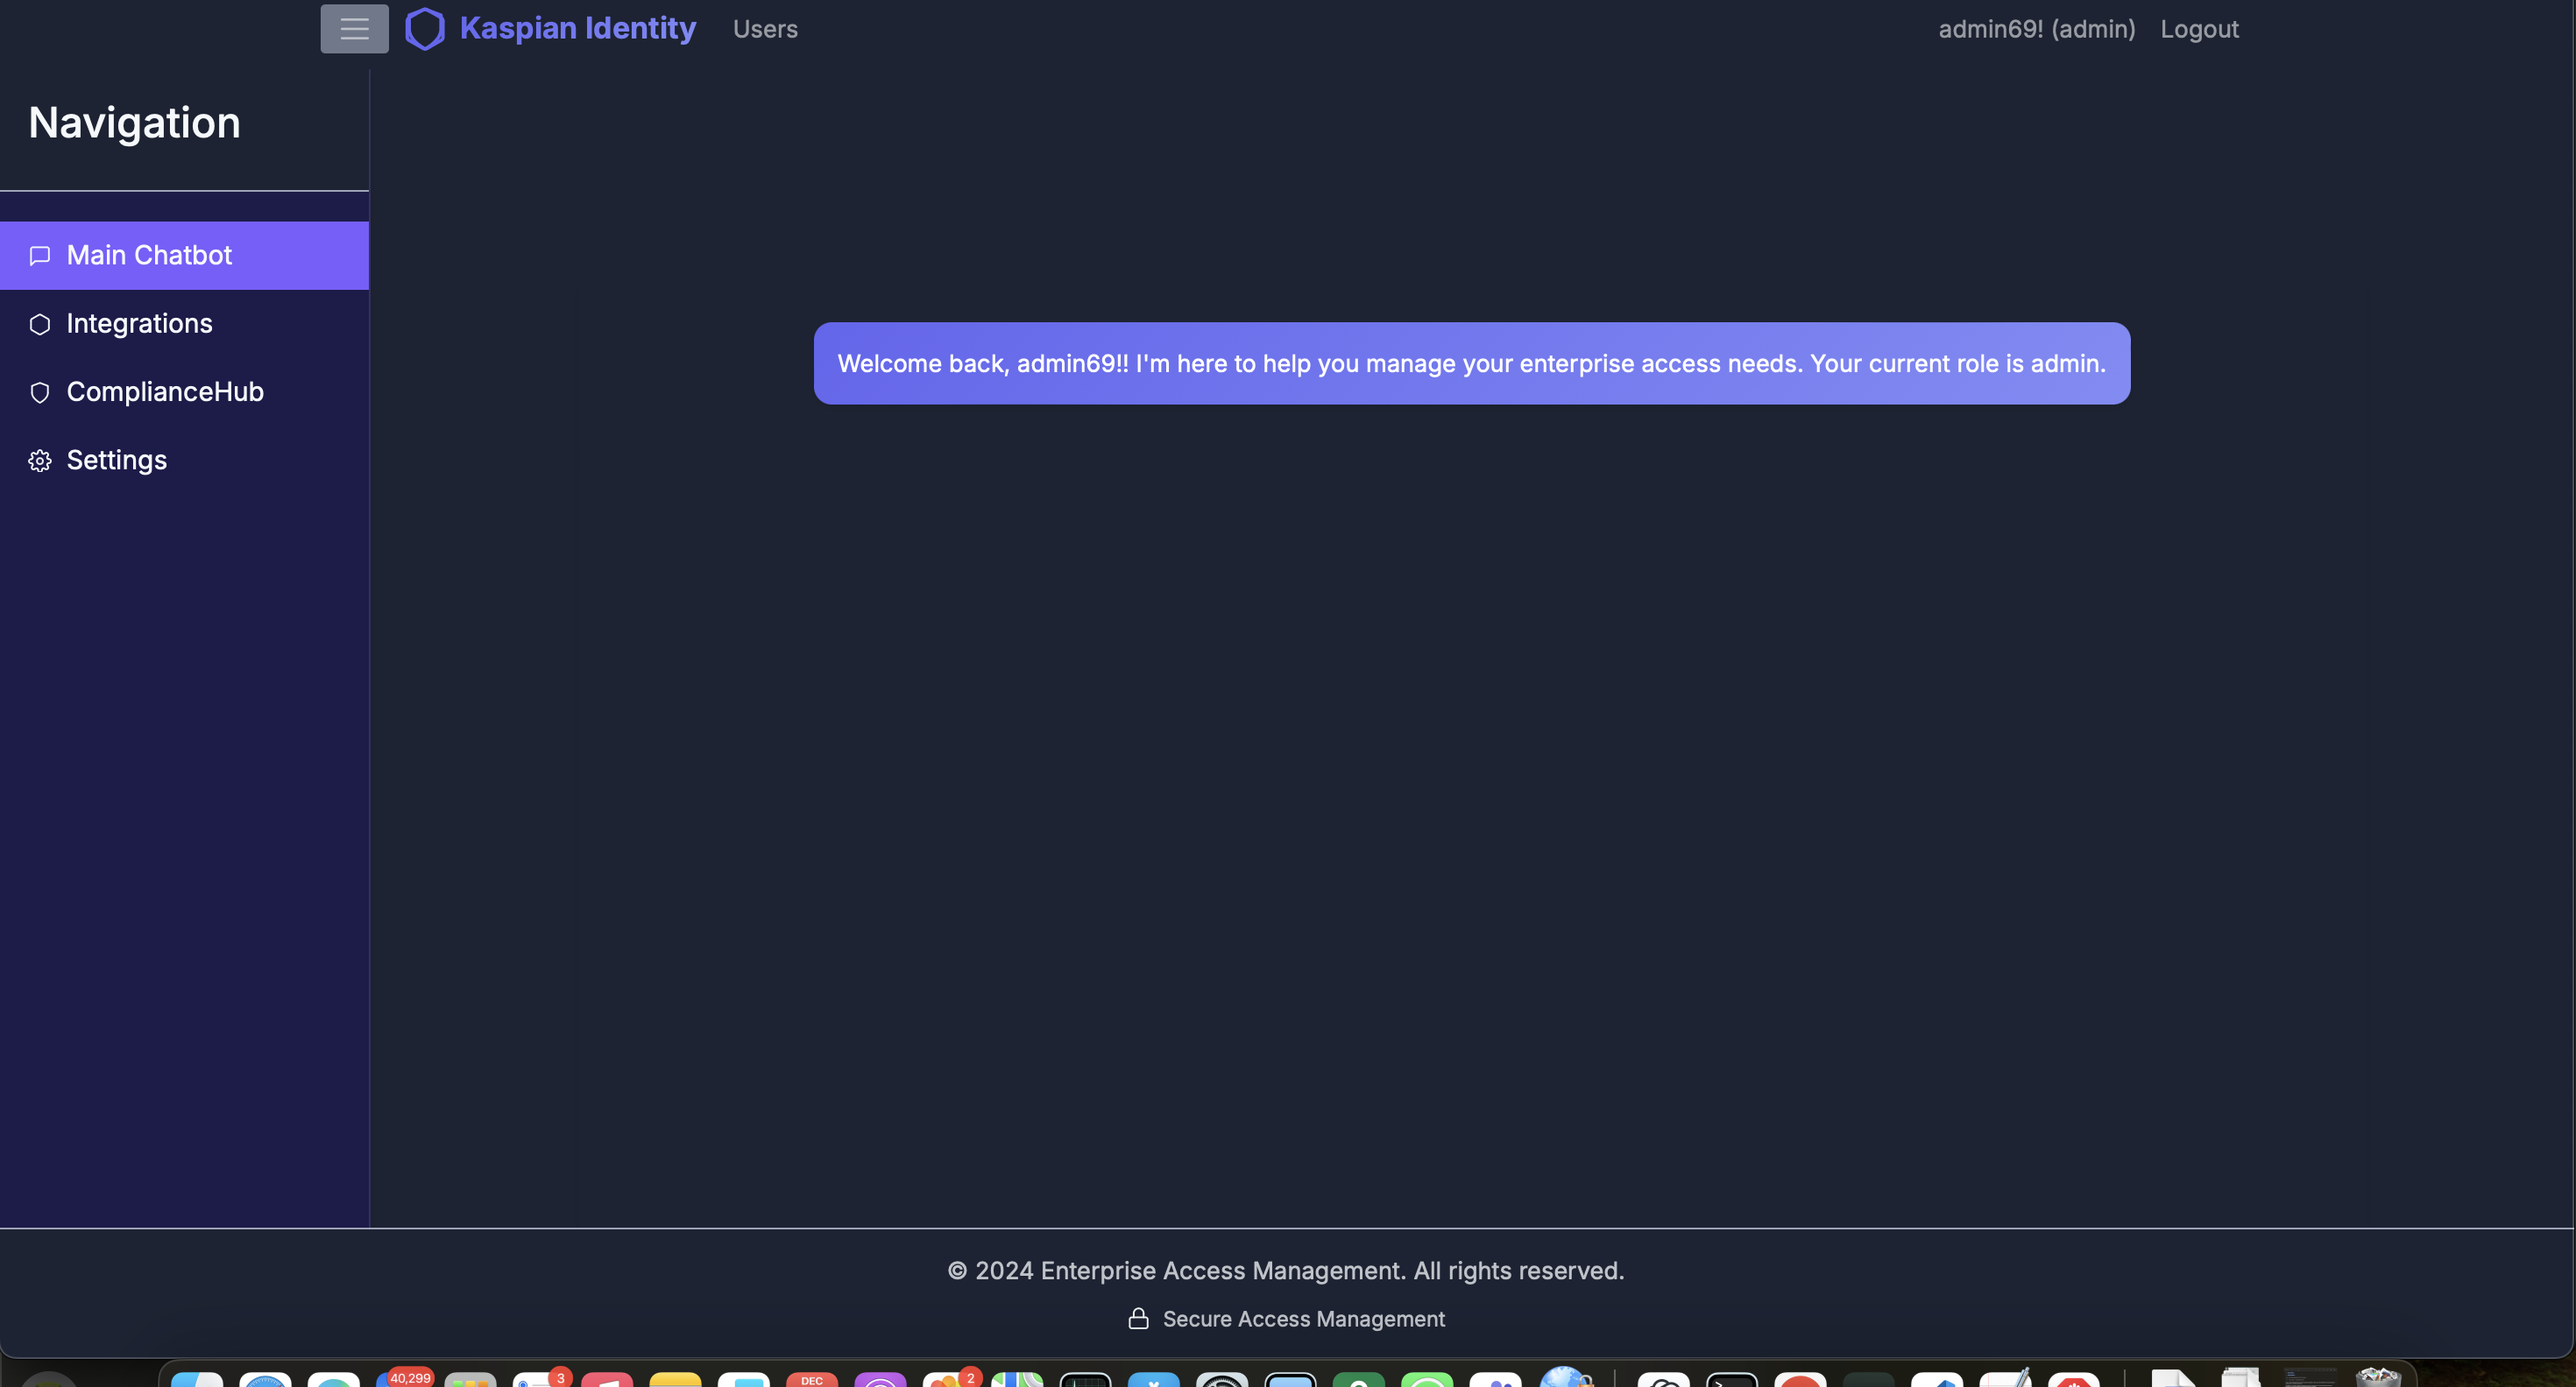
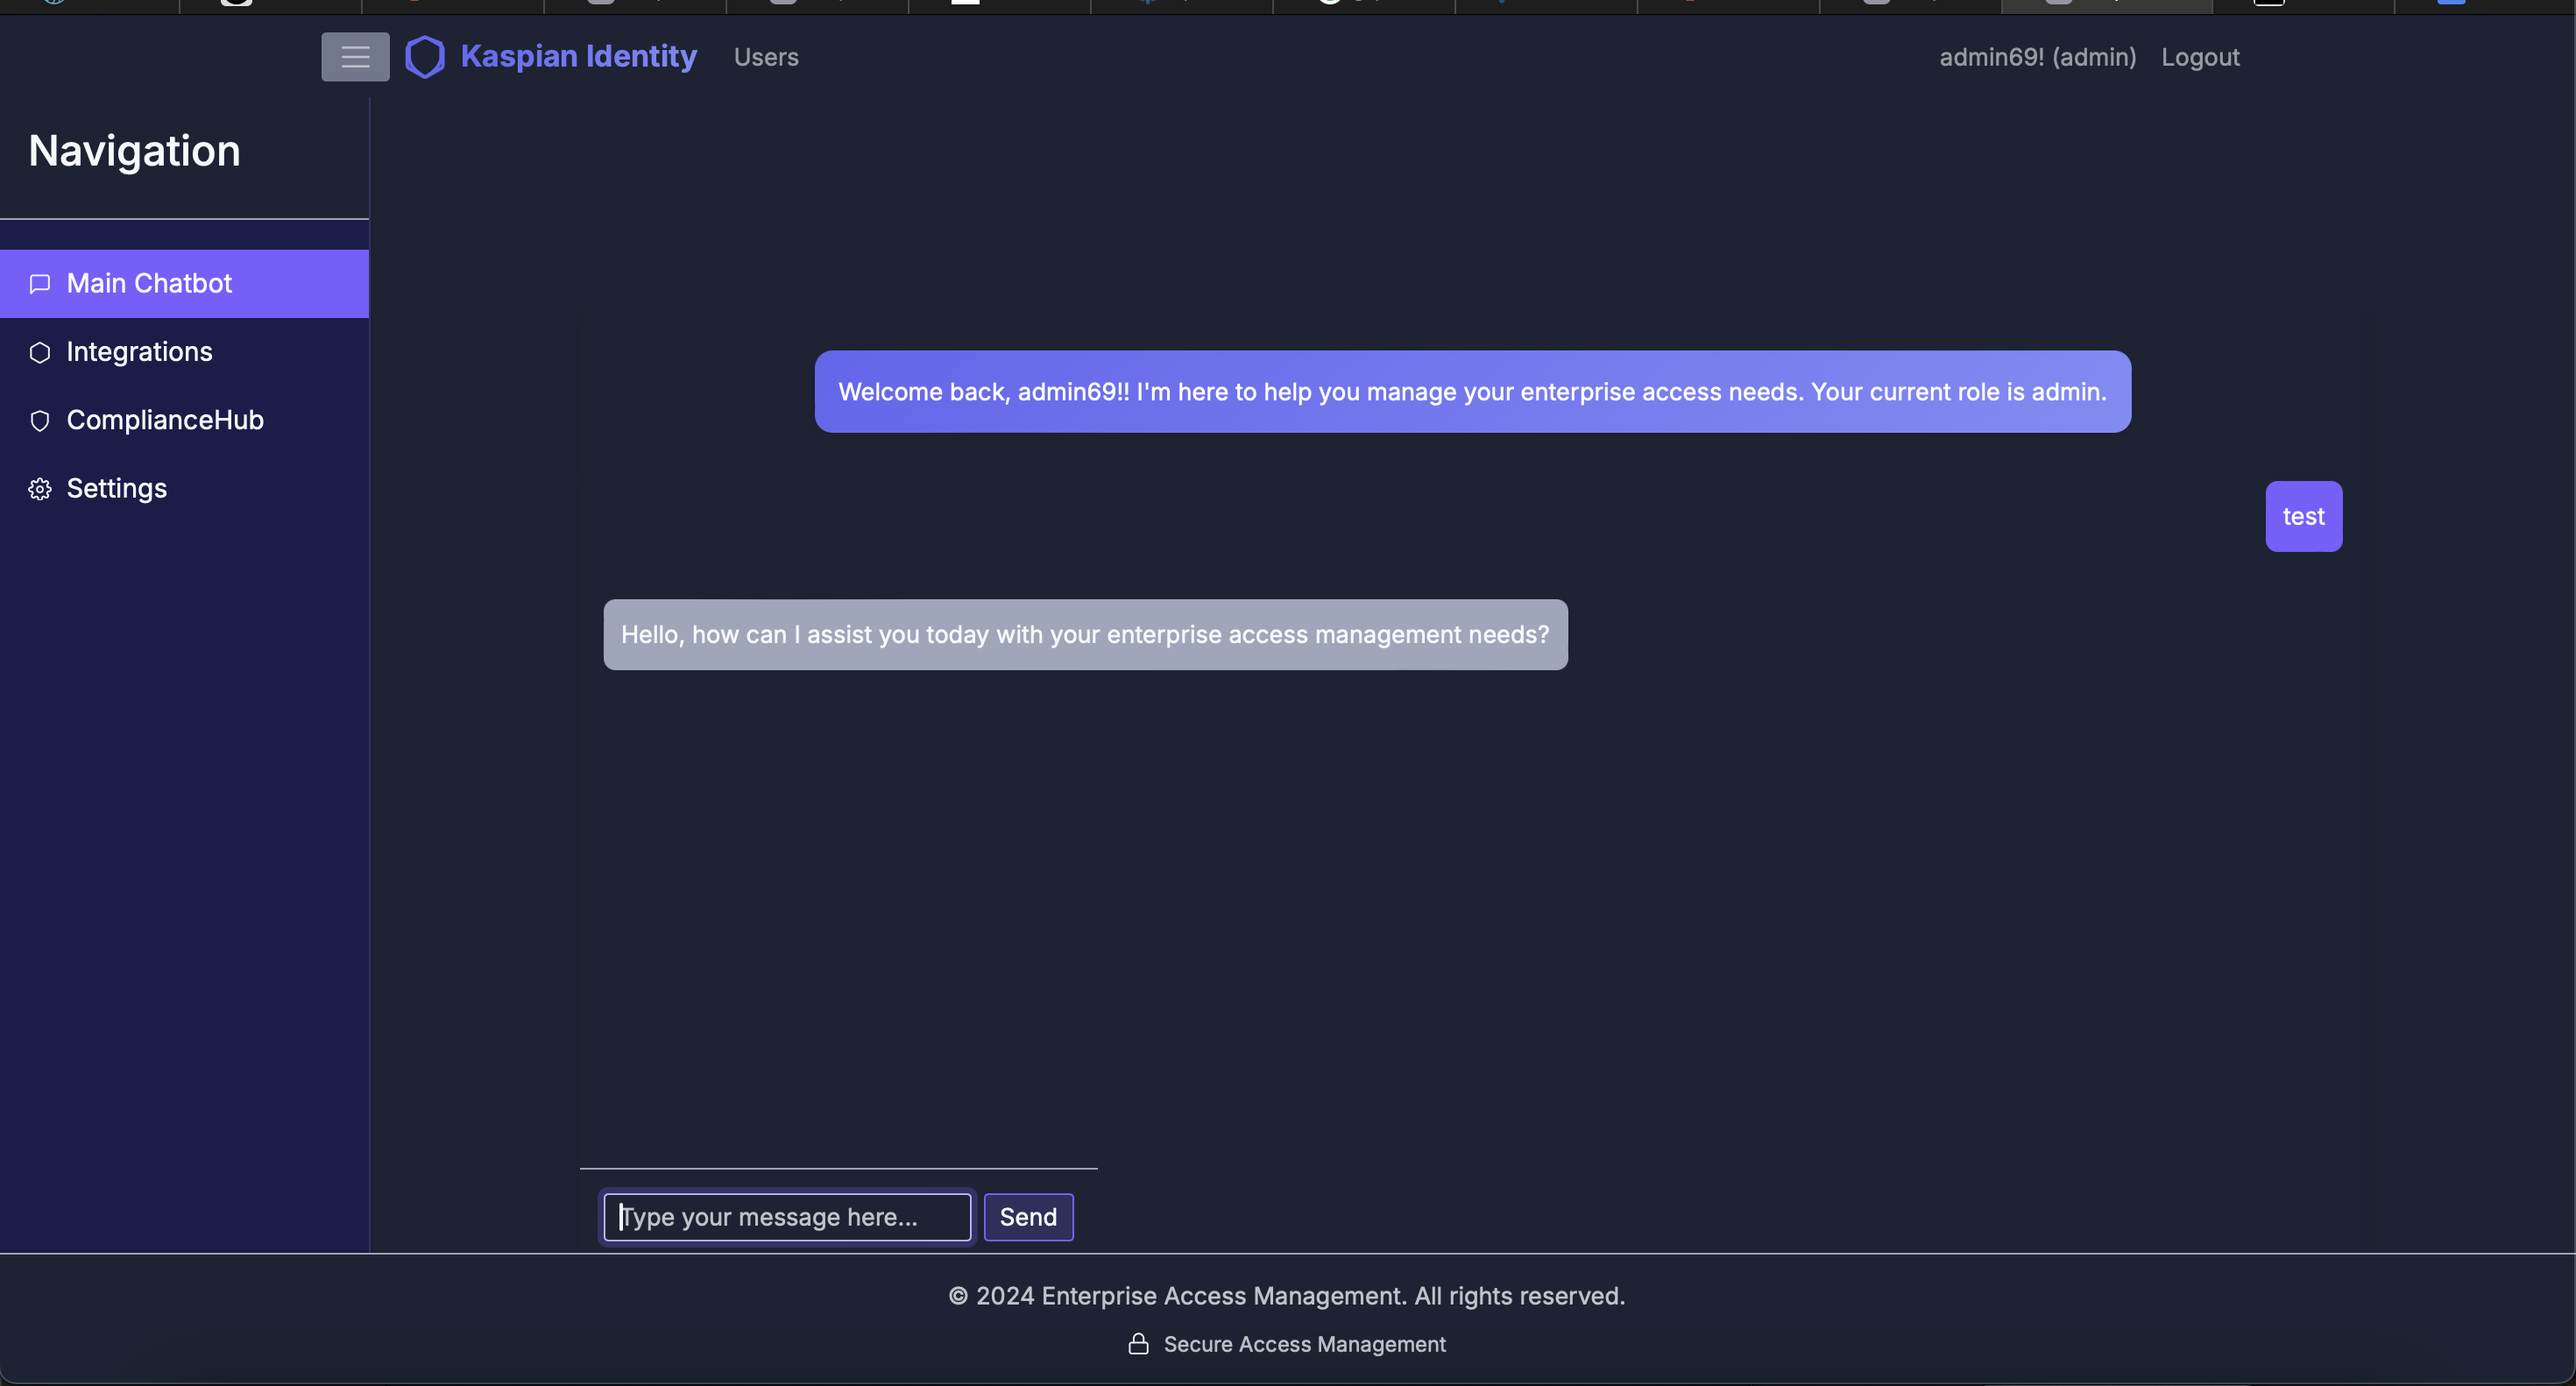
Agent query: Is the chat layout properly fixed with the welcome message correctly positioned at the top, and does the textarea input field work correctly with proper spacing?

diff --git a/templates/chat.html b/templates/chat.html
@@ -20,8 +20,9 @@
     </div>
     <div class="chat-input-container">
         <form id="chatForm" class="d-flex">
-            <input type="text" id="messageInput" class="form-control me-2" 
-                   placeholder="Type your message here..." required>
+            <textarea id="messageInput" class="form-control me-2" 
+                    placeholder="Type your message here..." required
+                    rows="2"></textarea>
             <button type="submit" class="btn btn-primary">Send</button>
         </form>
     </div>

diff --git a/static/css/custom.css b/static/css/custom.css
@@ -34,9 +34,17 @@
     width: inherit;
     max-width: inherit;
     background: var(--bs-dark);
-    padding: 1rem;
+    padding: 1.25rem;
     border-top: 1px solid var(--bs-secondary);
     z-index: 10;
+}
+
+#messageInput {
+    min-height: 60px;
+    padding: 0.75rem;
+    line-height: 1.5;
+    resize: none;
+    border-radius: 8px;
 }
 
 .typing-indicator {
